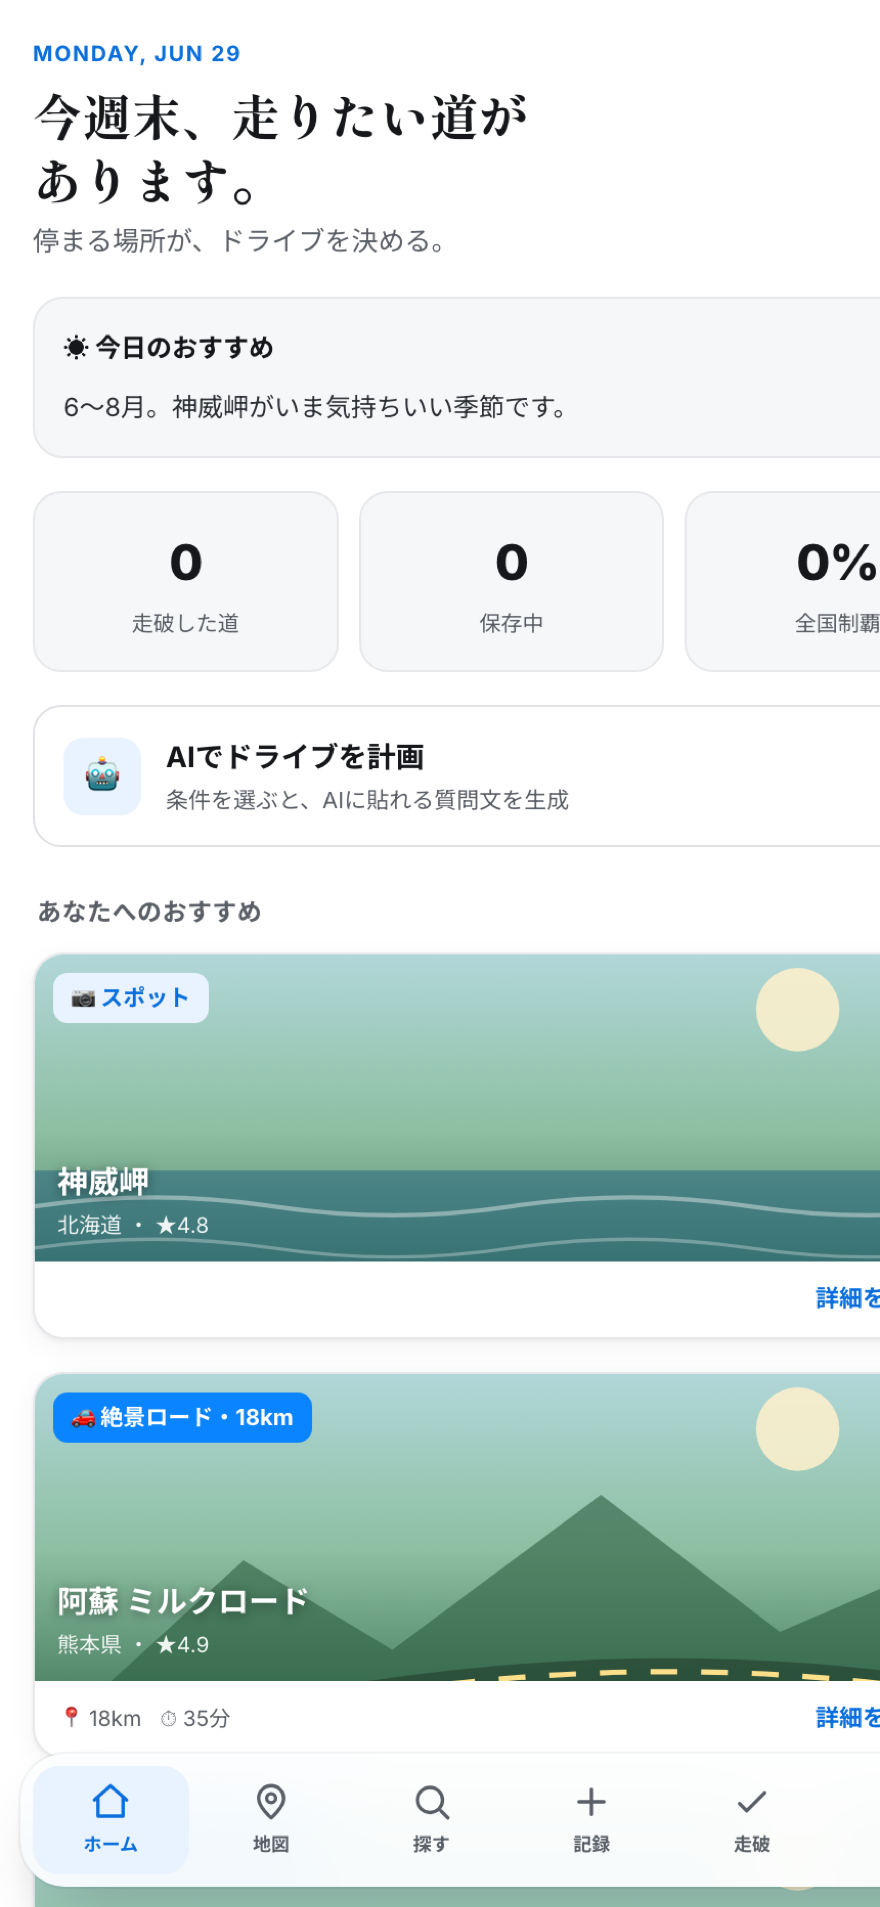
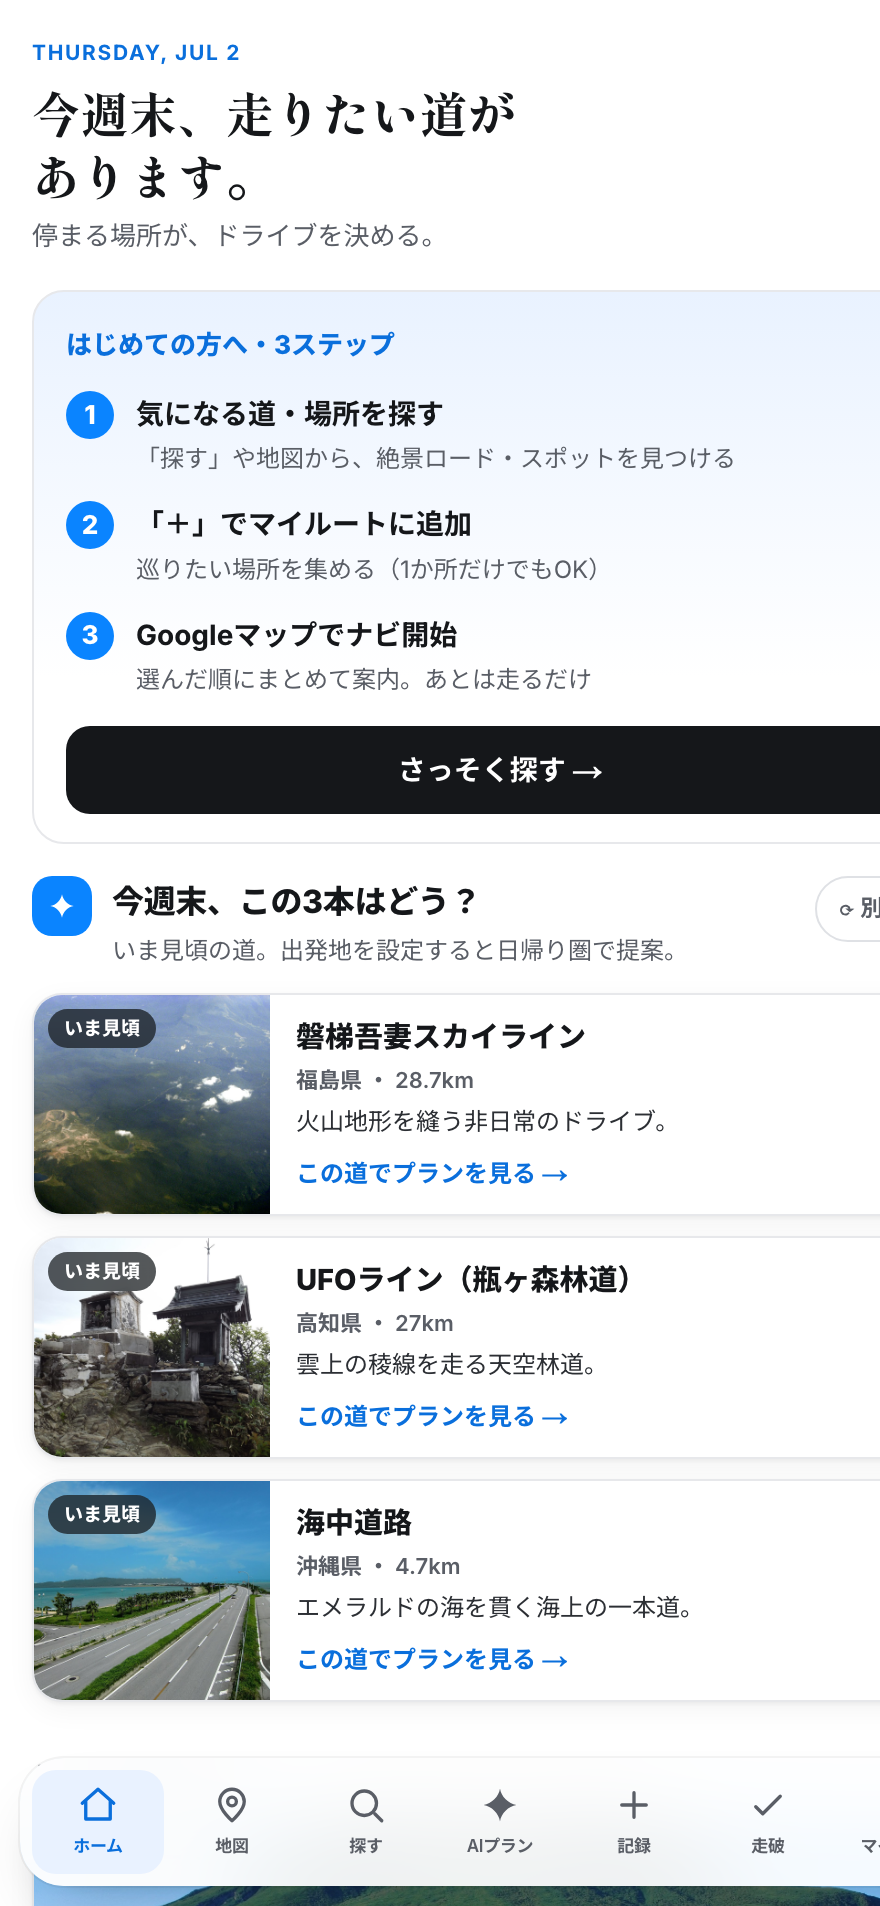
DriveScape 画面を最新版に更新（ライブサイトから撮り直し）
drivescape.pohoda.jp の現行UIをヘッドレスChromeで再撮影（880px）。ホーム/絶景ロードを
探す/AIプランナーの3枚に差し替え（?v=2）。地図ロード中のmap画面は不採用。

diff --git a/drivescape.html b/drivescape.html
@@ -85,8 +85,9 @@
     <div class="wrap">
       <div class="section-label">画面</div>
       <div class="shots">
-        <img src="./assets/screens/drivescape-home.png?v=1" alt="DriveScape ホーム画面" width="880" height="1907" loading="lazy">
-        <img src="./assets/screens/drivescape-explore.png?v=1" alt="DriveScape 絶景ロードを探す画面" width="880" height="1907" loading="lazy">
+        <img src="./assets/screens/drivescape-home.png?v=2" alt="DriveScape ホーム画面" width="880" height="1906" loading="lazy">
+        <img src="./assets/screens/drivescape-explore.png?v=2" alt="DriveScape 絶景ロードを探す画面" width="880" height="1906" loading="lazy">
+        <img src="./assets/screens/drivescape-planner.png?v=2" alt="DriveScape AI プランナー画面" width="880" height="1906" loading="lazy">
       </div>
     </div>
   </section>